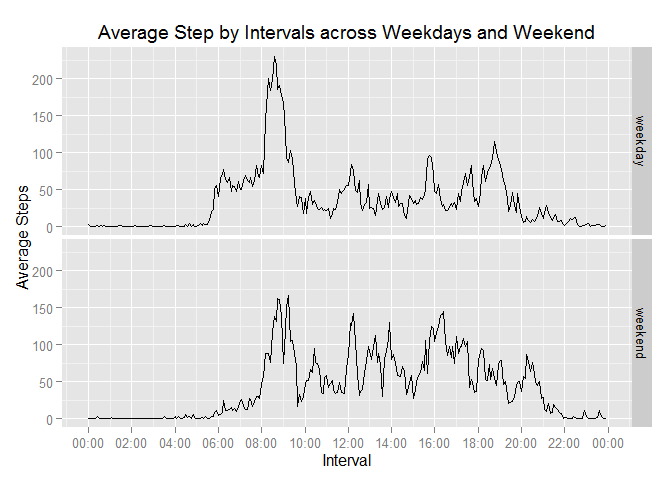
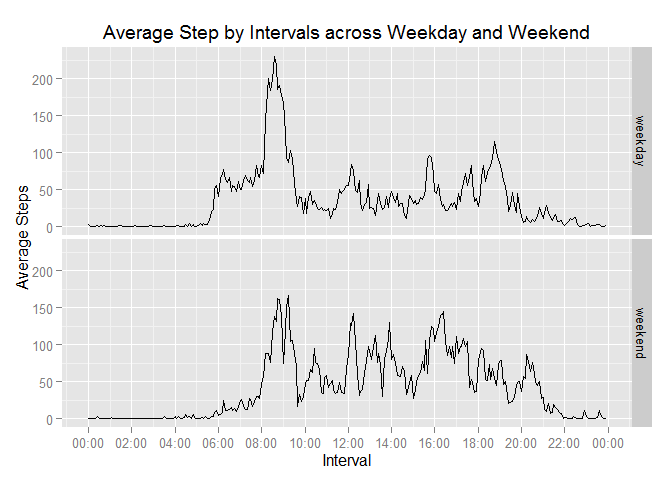
clean up
clean up

Changed region(s): [[0.125, 0.0312, 0.9062, 0.0938]]

diff --git a/PA1_template.html b/PA1_template.html
@@ -97,7 +97,6 @@ df.meanSteps.interval.rmNA &lt;-with(df.data, aggregate(steps, by=list(Interval 
 
 names(df.meanSteps.interval.rmNA)[2] &lt;- &quot;MeanSteps&quot;
 
-
 # create a interval column of Datetime class
 
 df.meanSteps.interval.rmNA[&quot;TimeInterval&quot;] &lt;- NA
@@ -176,10 +175,10 @@ ggplot(df.data.naFilled.mean, aes(x=TimeInterval, y=MeanSteps)) +
     geom_line() +
     xlab(&quot;Interval&quot;) +
     ylab(&quot;Average Steps&quot;) +
-    ggtitle(expression(&quot;Average Step by Intervals across Weekdays and Weekend&quot;)) + 
+    ggtitle(expression(&quot;Average Step by Intervals across Weekday and Weekend&quot;)) + 
     scale_x_datetime(labels = date_format(&quot;%H:%M&quot;),breaks = &quot;2 hour&quot;) +
     facet_grid(Cat~ .)</code></pre>
[2 lines of base64/hex data omitted]
 <p>From the plot above, in general, it can be observed that less steps are taken over weekend.</p>
 </div>
 

diff --git a/PA1_template.md b/PA1_template.md
@@ -81,7 +81,6 @@ df.meanSteps.interval.rmNA <-with(df.data, aggregate(steps, by=list(Interval = i
 
 names(df.meanSteps.interval.rmNA)[2] <- "MeanSteps"
 
-
 # create a interval column of Datetime class
 
 df.meanSteps.interval.rmNA["TimeInterval"] <- NA
@@ -211,7 +210,7 @@ ggplot(df.data.naFilled.mean, aes(x=TimeInterval, y=MeanSteps)) +
     geom_line() +
     xlab("Interval") +
     ylab("Average Steps") +
-    ggtitle(expression("Average Step by Intervals across Weekdays and Weekend")) + 
+    ggtitle(expression("Average Step by Intervals across Weekday and Weekend")) + 
     scale_x_datetime(labels = date_format("%H:%M"),breaks = "2 hour") +
     facet_grid(Cat~ .)
 ```
